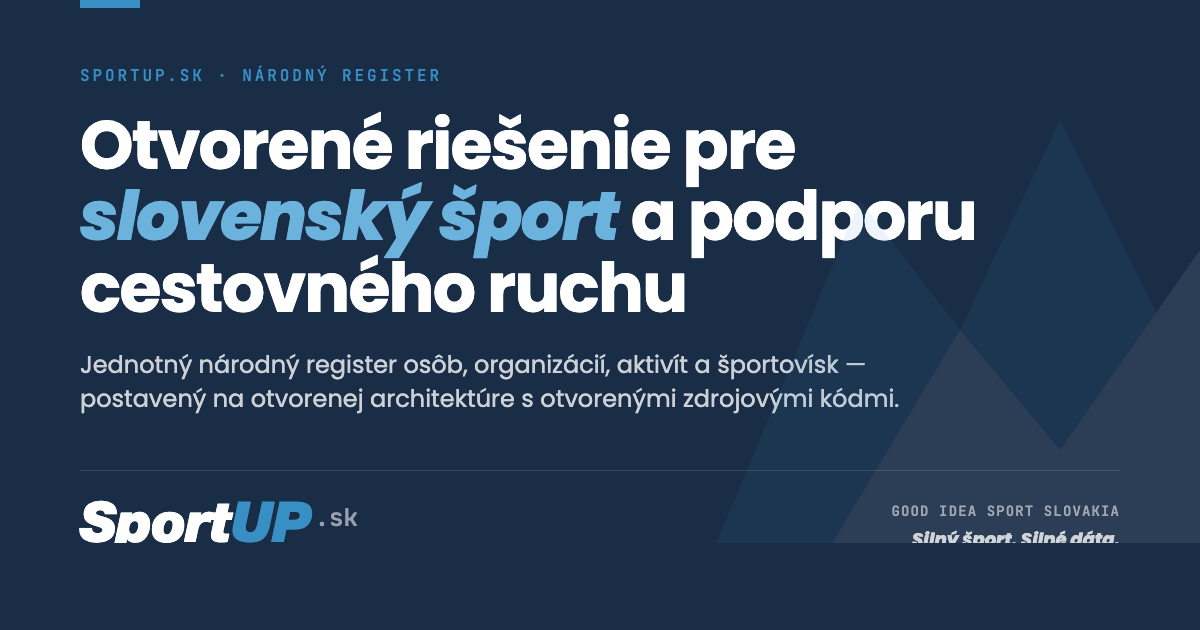
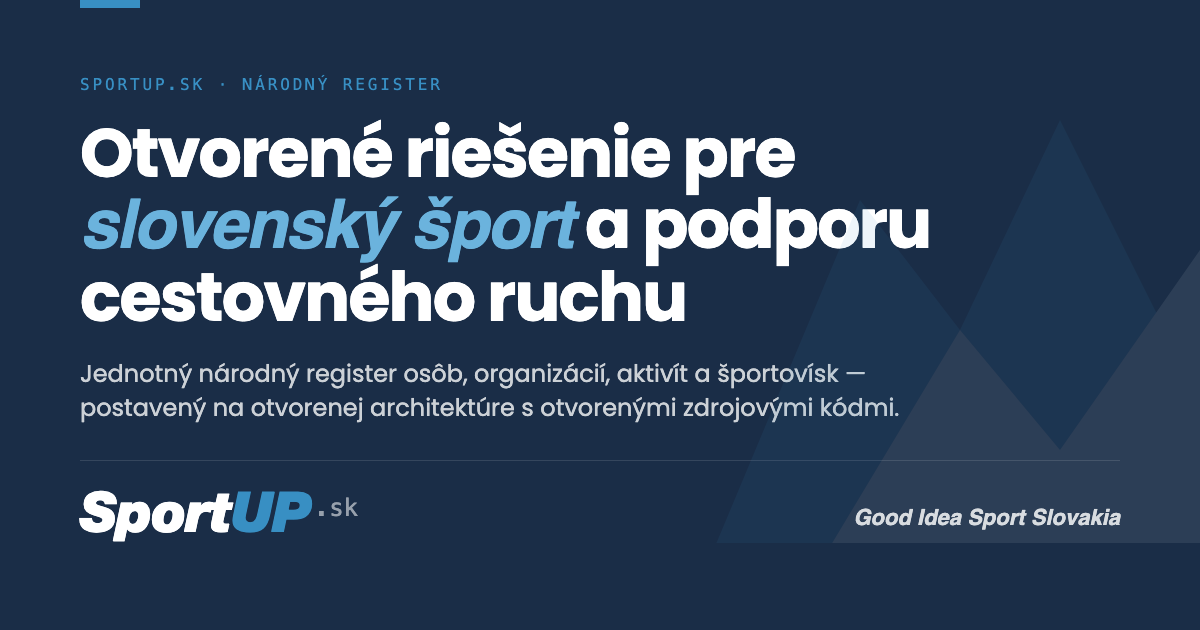
refactor(brand): zjednotiť tagline na "Good Idea Sport Slovakia"
"Silný šport. Silné dáta." odstránené všade — bolo to redundantné
popri "Good Idea Sport Slovakia", ktorý už slúžil ako primárny
brand claim. GISS odteraz stojí samostatne ako jediný tagline.

Zmeny:
- 6 HTML stránok + 404.html: odstránený footer-tagline div
- styles.css: odstránená class .footer-tagline (mŕtvy kód)
- og-image.png: regenerovaný; .meta-line upgradnutý na Poppins
  italic 22px (preberá vizuálnu váhu po odstránenom tagline);
  safe-zone padding 75/80/95 pre lepší crop na FB/LinkedIn
- brand/og-source.html: source HTML pre regeneráciu OG image
  uložený do repa s inštrukciami v komentári

diff --git a/website/brand/og-source.html b/website/brand/og-source.html
@@ -1,0 +1,149 @@
+<!--
+  SportUp.sk — Open Graph image source (1200×630)
+
+  Tento súbor sa používa na generovanie /og-image.png pomocou Chrome headless.
+  Pri zmene textu alebo layoutu spusti:
+
+    /Applications/Google\ Chrome.app/Contents/MacOS/Google\ Chrome \
+      --headless=new --disable-gpu --hide-scrollbars \
+      --window-size=1200,630 \
+      --screenshot=og-image.png \
+      'file:///absolutna/cesta/k/og-source.html'
+
+  Vyžaduje lokálne nainštalovanú font Helvetica Neue Black Italic
+  (zvyšok fontov sa stiahne z Google Fonts pri renderovaní).
+
+  Bezpečná zóna pre obsah: top 75px / sides 80px / bottom 95px
+  — zachováva čitateľnosť pri 1.91:1 cropovaní (Facebook, LinkedIn).
+-->
+<!DOCTYPE html>
+<html lang="sk">
+<head>
+<meta charset="UTF-8">
+<link href="https://fonts.googleapis.com/css2?family=Poppins:ital,wght@0,400;0,600;0,700;0,800;1,800&family=JetBrains+Mono:wght@500&display=swap" rel="stylesheet">
+<style>
+  @font-face {
+    font-family: 'Helvetica Neue Black Italic';
+    src: local('Helvetica Neue Black Italic');
+  }
+  * { margin: 0; padding: 0; box-sizing: border-box; }
+  html, body { width: 1200px; height: 630px; overflow: hidden; }
+  body {
+    font-family: 'Poppins', sans-serif;
+    background: #1A2D47;
+    color: #fff;
+    position: relative;
+    padding: 75px 80px 95px;
+    display: flex;
+    flex-direction: column;
+    justify-content: space-between;
+  }
+  /* mountain motif top-right */
+  .mountain {
+    position: absolute;
+    top: 0;
+    right: 0;
+    width: 520px;
+    height: 100%;
+    opacity: 0.08;
+  }
+  .accent-line {
+    position: absolute;
+    top: 0;
+    left: 80px;
+    width: 60px;
+    height: 8px;
+    background: #388FC3;
+  }
+  .eyebrow {
+    font-family: 'JetBrains Mono', monospace;
+    font-weight: 500;
+    font-size: 16px;
+    letter-spacing: 0.18em;
+    text-transform: uppercase;
+    color: #388FC3;
+    margin-bottom: 24px;
+  }
+  .title {
+    font-family: 'Poppins', sans-serif;
+    font-weight: 700;
+    font-size: 68px;
+    line-height: 1.05;
+    letter-spacing: -0.025em;
+    margin-bottom: 24px;
+    max-width: 900px;
+  }
+  .title em {
+    font-style: italic;
+    font-weight: 700;
+    color: #6BB3DD;
+  }
+  .lead {
+    font-family: 'Poppins', sans-serif;
+    font-weight: 400;
+    font-size: 24px;
+    line-height: 1.4;
+    color: rgba(255,255,255,0.78);
+    max-width: 820px;
+    margin-bottom: 36px;
+  }
+  .footer {
+    display: flex;
+    align-items: center;
+    justify-content: space-between;
+    padding-top: 28px;
+    border-top: 1px solid rgba(255,255,255,0.12);
+  }
+  .logo {
+    font-family: 'Helvetica Neue Black Italic', 'Poppins', sans-serif;
+    font-weight: 900;
+    font-style: italic;
+    font-size: 56px;
+    line-height: 1;
+    letter-spacing: -0.02em;
+  }
+  .logo .sport { color: #fff; }
+  .logo .up { color: #388FC3; }
+  .logo .tld {
+    font-family: 'JetBrains Mono', monospace;
+    font-style: normal;
+    font-weight: 500;
+    font-size: 24px;
+    color: rgba(255,255,255,0.55);
+    letter-spacing: 0;
+    margin-left: 4px;
+    vertical-align: 16px;
+  }
+  .meta {
+    text-align: right;
+  }
+  .meta-line {
+    font-family: 'Poppins', sans-serif;
+    font-weight: 600;
+    font-style: italic;
+    font-size: 22px;
+    color: rgba(255,255,255,0.82);
+  }
+</style>
+</head>
+<body>
+  <svg class="mountain" viewBox="0 0 520 630" xmlns="http://www.w3.org/2000/svg" preserveAspectRatio="xMaxYMid slice">
+    <polygon points="0,630 180,200 280,330 380,120 520,400 520,630" fill="#388FC3"/>
+    <polygon points="100,630 280,330 380,450 520,250 520,630" fill="#fff"/>
+  </svg>
+  <div class="accent-line"></div>
+
+  <div>
+    <div class="eyebrow">SportUp.sk · Národný register</div>
+    <h1 class="title">Otvorené riešenie pre <em>slovenský šport</em> a podporu cestovného ruchu</h1>
+    <p class="lead">Jednotný národný register osôb, organizácií, aktivít a športovísk — postavený na otvorenej architektúre s otvorenými zdrojovými kódmi.</p>
+  </div>
+
+  <div class="footer">
+    <div class="logo"><span class="sport">Sport</span><span class="up">UP</span><span class="tld">.sk</span></div>
+    <div class="meta">
+      <div class="meta-line">Good Idea Sport Slovakia</div>
+    </div>
+  </div>
+</body>
+</html>

diff --git a/website/architektura.html b/website/architektura.html
@@ -360,7 +360,6 @@ POST /v1/affiliations
 <div class="footer-brand"><em>Sport</em>UP<span class="footer-tld">.sk</span></div>
 <div class="footer-slogan">Good Idea Sport Slovakia</div>
 <div>Otvorené riešenie pre šport a cestovný ruch · verzia 0.1</div>
-<div class="footer-tagline">Silný šport. Silné dáta.</div>
 </div>
 <div>
 <div style="margin-bottom: 0.3rem;"><a href="index.html">Úvod</a> · <a href="architektura.html">Architektúra</a> · <a href="kontakt.html">Kontakt</a></div>

diff --git a/website/404.html b/website/404.html
@@ -222,7 +222,6 @@
 <div class="footer-brand"><em>Sport</em>UP<span class="footer-tld">.sk</span></div>
 <div class="footer-slogan">Good Idea Sport Slovakia</div>
 <div>Otvorené riešenie pre šport a cestovný ruch · verzia 0.1</div>
-<div class="footer-tagline">Silný šport. Silné dáta.</div>
 </div>
 <div>
 <div style="margin-bottom: 0.3rem;"><a href="/index.html">Úvod</a> · <a href="/architektura.html">Architektúra</a> · <a href="/kontakt.html">Kontakt</a></div>

diff --git a/website/brand.html b/website/brand.html
@@ -270,7 +270,6 @@
 <div class="footer-brand"><em>Sport</em>UP<span class="footer-tld">.sk</span></div>
 <div class="footer-slogan">Good Idea Sport Slovakia</div>
 <div>Otvorené riešenie pre šport a cestovný ruch · verzia 0.1</div>
-<div class="footer-tagline">Silný šport. Silné dáta.</div>
 </div>
 <div>
 <div style="margin-bottom: 0.3rem;"><a href="index.html">Úvod</a> · <a href="architektura.html">Architektúra</a> · <a href="kontakt.html">Kontakt</a></div>

diff --git a/website/domenovy-model.html b/website/domenovy-model.html
@@ -536,7 +536,6 @@
 <div class="footer-brand"><em>Sport</em>UP<span class="footer-tld">.sk</span></div>
 <div class="footer-slogan">Good Idea Sport Slovakia</div>
 <div>Otvorené riešenie pre šport a cestovný ruch · verzia 0.1</div>
-<div class="footer-tagline">Silný šport. Silné dáta.</div>
 </div>
 <div>
 <div style="margin-bottom: 0.3rem;"><a href="index.html">Úvod</a> · <a href="architektura.html">Architektúra</a> · <a href="kontakt.html">Kontakt</a></div>

diff --git a/website/ekosystem.html b/website/ekosystem.html
@@ -219,7 +219,6 @@
 <div class="footer-brand"><em>Sport</em>UP<span class="footer-tld">.sk</span></div>
 <div class="footer-slogan">Good Idea Sport Slovakia</div>
 <div>Otvorené riešenie pre šport a cestovný ruch · verzia 0.1</div>
-<div class="footer-tagline">Silný šport. Silné dáta.</div>
 </div>
 <div>
 <div style="margin-bottom: 0.3rem;"><a href="index.html">Úvod</a> · <a href="architektura.html">Architektúra</a> · <a href="kontakt.html">Kontakt</a></div>

diff --git a/website/index.html b/website/index.html
@@ -316,7 +316,6 @@
 <div class="footer-brand"><em>Sport</em>UP<span class="footer-tld">.sk</span></div>
 <div class="footer-slogan">Good Idea Sport Slovakia</div>
 <div>Otvorené riešenie pre šport a cestovný ruch · verzia 0.1</div>
-<div class="footer-tagline">Silný šport. Silné dáta.</div>
 </div>
 <div>
 <div style="margin-bottom: 0.3rem;"><a href="index.html">Úvod</a> · <a href="architektura.html">Architektúra</a> · <a href="kontakt.html">Kontakt</a></div>

diff --git a/website/styles.css b/website/styles.css
@@ -1045,12 +1045,6 @@ footer {
   letter-spacing: 0.01em;
 }
 
-.footer-tagline {
-  font-style: italic;
-  color: var(--blue);
-  font-size: 0.82rem;
-  margin-top: 0.35rem;
-}
 
 /* Utilities */
 .text-center { text-align: center; }
